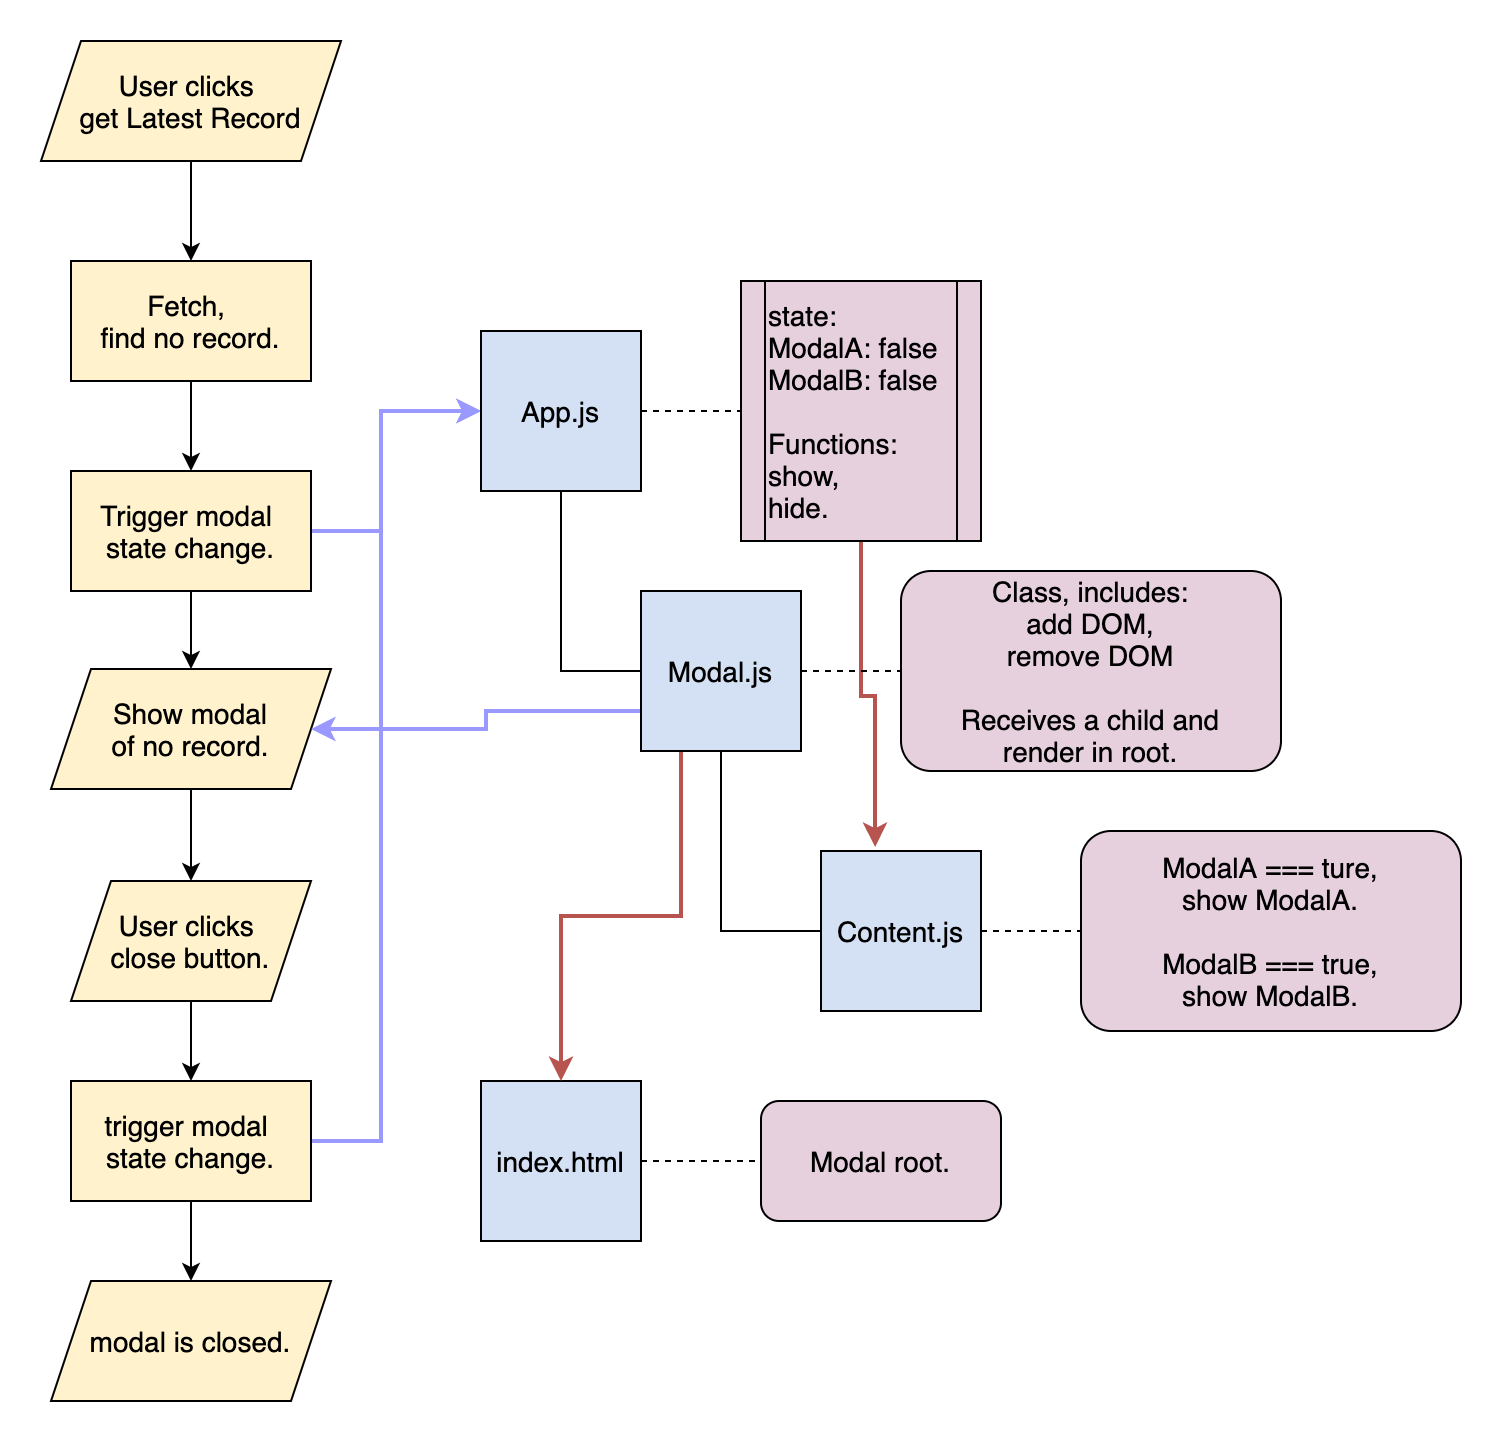
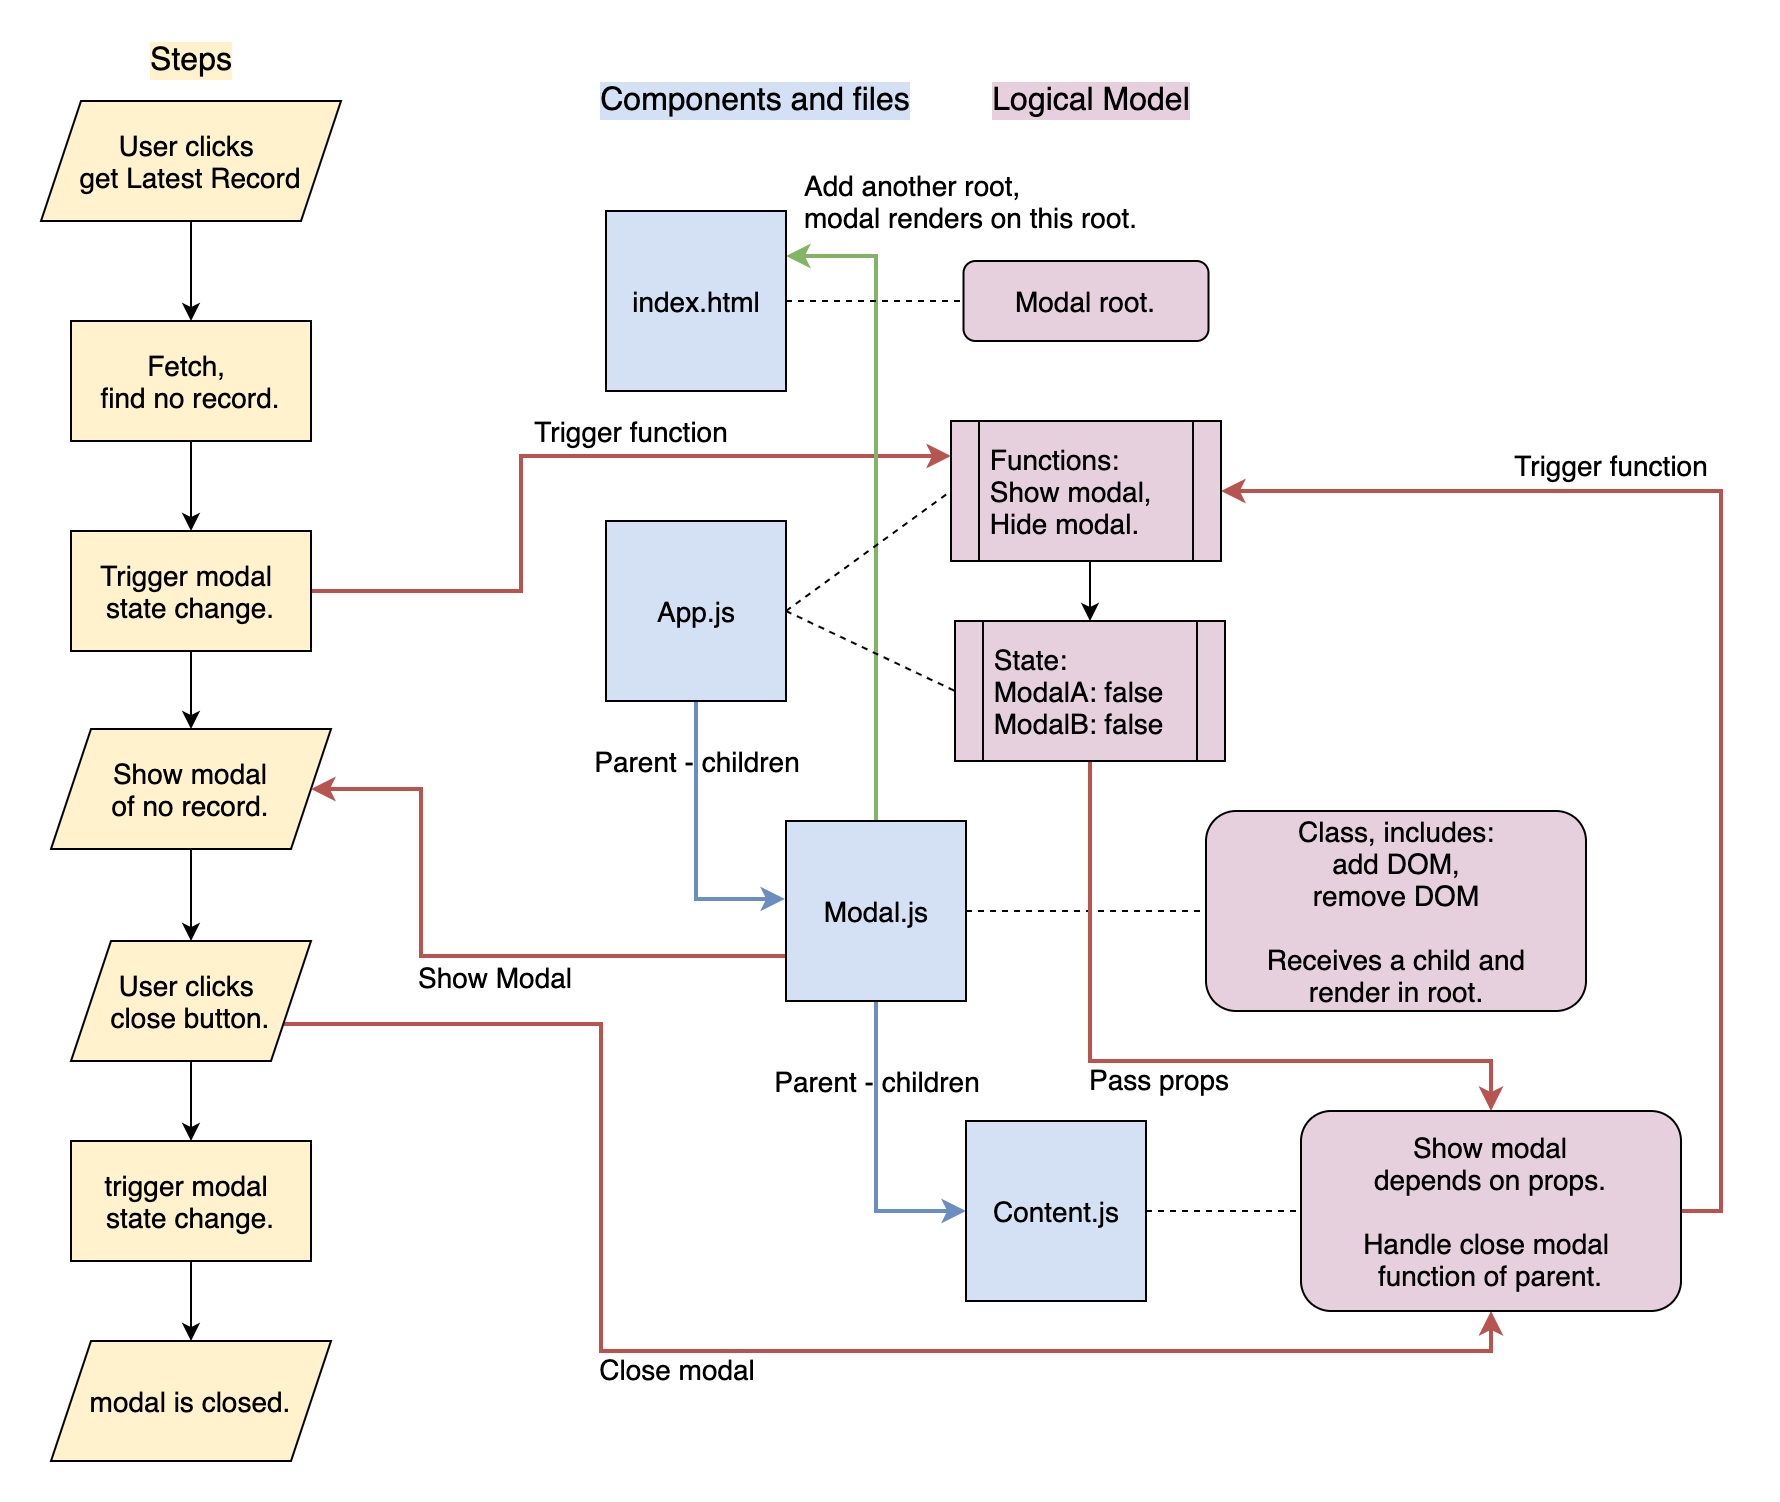
replace some png, add context

diff --git a/README_Mandarin.md b/README_Mandarin.md
@@ -6,9 +6,9 @@
 
 ## 動機及目的
 - 想減重😁。採用的方式是：讓「攝取」的熱量比「消耗」的熱量少。
-- 減重期間共約15週，每週都要重複計算熱量、做調整，我希望有一個系統，不只幫我算，也記得上週的數據，方便我調整，讓我減重更輕鬆。
+- 減重期間共約15週，每週都要重複計算熱量、做調整，我希望有一個系統，不只幫助計算，也記得上週的數據，方便做調整，讓減重更輕鬆。
 
-## 路徑簡介、使用方式介紹
+## 功能路徑、使用方式簡介
 
 <div align="center">
   <img src="example/dietaChart_bgw_200percent_pad20.png" alt="Dieta Route Chart" width="600px" />
@@ -21,9 +21,9 @@
 3. 此外，隨時可以到「結果查詢」叫出上次的計算結果。
 
 
-## 成果？？？？？🚀
-- 我把這個project推薦給我的教練，他也鼓勵他的學生使用🥰。
-- 上線一個月內達到xx個使用者。
+## 實際上線成果🚀
+- 我把這個project介紹給我的教練，他也推薦給他的學生使用🥰。
+- 上線一個月內達到 **31** 名使用者。
 
 ## 特點
 
@@ -42,7 +42,7 @@
 ✨ 手機、桌機體驗良好的前端網站。\
 ✨ 利用```react-super-responsive-table```達成響應式表格。\
 ✨ 利用```react-bootstrap```達成響應式導覽列。\
-✨ 利用Tachyons設定達成：針對不同螢幕大小，顯示不同樣式的設計。
+✨ 利用```Tachyons```設定達成：針對不同螢幕大小，顯示不同樣式的設計。
 
 ### 安全性
 ✨ 使用者密碼以**Bcrypt**加密。\
@@ -52,7 +52,7 @@
 ✨ 支援中文/英文，採用```react-i18next```及```hooks```\
 －將翻譯檔放在後端，需要時再去抓取，減少檔案大小。
 －自動偵測使用者瀏覽器語言。
-－基於i18next的基礎上發展，而i18next可與多種框架配合使用。
+－基於i18next的基礎上發展，而i18next可與多種框架配合使用，不僅限於react。
 
 ### 部署
 ✨ 前端網站部署到Netlify。\
@@ -88,30 +88,39 @@
 ## 詳細作法
 
 ### 註冊、登入，及 Guest user試用登入
-- 前端、後端、資料庫，登入、註冊的資料流向：
+- 前端、後端、資料庫，登入、註冊時，資料從前端帶到後端server，及資料庫，並回傳到前端：
   
 <div align="center">
   <img src="example/signIn_signUp_bgw_200percent_pad10.png" alt="sign in and sign up chart" width="600px" />
   <br>
 </div>
 
-### 儲存、計算使用者輸入資料
+- 登入(黃色框)時，資料傳到資料庫，比對hash的密碼，比對成功後將使用者資料回傳到前端。
+- 註冊(藍色框)時，資料傳到後端，建立新使用者，並儲存hash密碼於Login table，另外也在Users table新增該使用者，過程以transaction完成。完成後，回傳資料到前端。
+- Guest User(淺紫色框)的路線，則是不用註冊，直接試用計算熱量的功能，計算完成後，可導引至註冊頁面(箭頭連到註冊的藍色框)，填完資料後，系統會先新增該使用者，再將計算結果儲存到各個表格(箭頭旁的紫色說明文字部分)。
+
+
+### 路徑一：「開始減脂」，儲存、計算營養素和熱量
 - 「開始減脂」的路徑，前端畫面、state狀態、後端，與資料庫的流程圖示：
 
 <div align="center">
   <img src="example/calculation_path_bgw_200percent_pad10.png" alt="calculation path chart" width="600px" />
   <br>
 </div>
+- 使用者輸入的資料，以及計算結果，都會存在state，最後一步才會透過server存到資料庫。
 
-### 第二週開始，「減脂期間」，調整熱量
-- 「減脂期間」，使用者輸入體重後，動態檢視建議，調整下週熱量－使用者操作流程，及state改變：
+### 路徑二：第二週開始，「減脂期間」，調整熱量
+- 「減脂期間」，使用者輸入體重後，動態檢視建議，並調整下週熱量。以下是使用者操作流程，及state改變：
 
 <div align="center">
   <img src="example/next_move_path_bgw_200percent_pad10.png" alt="during diet chart" width="600px" />
   <br>
 </div>
 
-- 畫面展示：
+- 輸入體重後計算速率，並觸發state改變，來達到顯示特定內容的功能。
+- 使用者可選擇加快或放慢，畫面也會隨state跟著改變。
+
+#### 畫面展示：
 1. 輸入體重後，動態顯示建議。
 2. 下方動態顯示加速或放慢速度的選項。
 
@@ -121,24 +130,29 @@
 </div>
 
 
-### 叫出上週的「活動量、運動量」記錄，使用者不用再一一點選。
-- 減脂期間，可點選按鈕，叫出上週的活動量、運動量紀錄。使用者操作流程，及state改變，與後端、資料庫的流程：
+### 「下載上週記錄」功能，使用者不用再一一點選活動量、運動量。
+- 當使用者進入減脂期間，到點選活動量、運動量頁面時，可點選下載按鈕，直接叫出上週的紀錄。下圖是使用者操作流程，及state改變，與後端、資料庫的流程：
 
 <div align="center">
   <img src="example/Load_options_bgw_200percent_pad10.png" alt="load activity and exercise record" width="600px" />
   <br>
 </div>
 
-### 叫出上次的熱量計算結果
-- 判斷是否為guest user，及是否存有記錄，有的話就顯示在畫面上。
+- 原本為了將一週七天的選擇結果記錄下來，state裡面有設計活動量及運動量的陣列。
+- 為了達到「將結果叫出，並且顯示在畫面上」的功能，我加上新的state去控制該選項是否「checked」。每組選項共有「無、低、中、高」四種等級，於是以一個2維陣列代表，分別紀錄每個小選項的checked狀態，checked為true的就會顯示為選中。
+
+
+### 路徑三：「叫出上次的熱量計算結果」
+- 叫出計算結果，並顯示在畫面上。
 
 <div align="center">
   <img src="example/get_result_path_200persent_pad20.png" alt="get latest result chart" width="600px" />
   <br>
 </div>
 
+- 此路徑必須先判斷是否為guest user，及是否存有記錄(已註冊，但還沒計算過的使用者，就不會有紀錄)。如果有，在畫面上顯示結果；沒有，顯示提醒，並將使用者導引至路徑一：熱量計算。
 
-### 使用三大功能(開始計算、熱量調整、查看上次熱量紀錄)時，判斷權限。
+### 使用三大路徑功能(開始計算、熱量調整、查看上次熱量紀錄)時，判斷權限。
 - 區分使用者是否有登入，某些功能頁面僅限已登入的使用者使用，未登入者會被導引至登入畫面。
 - 除此之外，進入不同功能時，有些前置作業(抓資料、刪除資料)必須完成，也是在這邊做判斷並執行。
 
@@ -156,38 +170,32 @@
   <img src="example/routeChange_200persent_pad20.png" alt="route change check chart" width="600px" />
   <br>
 </div>
-
+- 使用者想進入選擇活動量頁面，先判斷使用者是從「路徑一，計算熱量」還是「路徑二，熱量調整」來的？再判斷各自的頁面資料是否填寫正確。如錯誤，顯示提醒；正確，路徑一者，導引到活動頁；路徑二，再次進行判斷，是否已有計算資料？沒有的話，彈出提醒。
 
 ### 根據route顯示不同畫面
+- ```App.js```裡用function及state來控制畫面：
 <div align="center">
   <img src="example/renderRoute_200persent_pad20.png" alt="route change chart" width="600px" />
   <br>
 </div>
 
-- 設定三個function，及一個route state。
-- 一個function專門去change State。
-- 一個function傳入route參數，並以```switch case```分別定義：在不同route case時，回傳要顯示的component。
-- 在最後的render function放入前一function的執行結果。
+- 設定3個function，及一個route state。
+- ```A function```專門change State。
+- ```B function```傳入route state，並以```switch case```分別定義：在不同route case時，回傳要顯示的component。
+- ```C render function```放入```B function```的執行結果。
 
 
 ### Modal彈出提醒視窗
+- 以```portal```功能達到modal效果。下圖顯示使用者操作流程，搭配component的資料傳遞。
+
 <div align="center">
   <img src="example/modal_200percent_pad20.png" alt="modal chart" width="600px" />
   <br>
 </div>
 
 - 遇到「未完成第一次計算」的使用者想下載紀錄，跳出錯誤宣告:「沒有計算結果」或「沒有活動量、運動量紀錄」
-- 利用react的portal概念達到modal效果。
-- 分別設定單獨的modal component，並另外將modal的內容設為另一個component，以children的方式傳入，達到重複利用的目的。
-
-下面可刪除？＝＝＝
-- ```在index.html```設兩個root，一個給portal使用。
-- 在```modal class```裡面，contructor指定一新增div DOM，並且利用生命週期function設定開啟、關閉時，將DOM附加或移除。
-- ```modal class```的render，用```createPortal```將children顯示在div DOM裡面
-- 在app裡面的state，設定哪種modal需要出現。並且有function去控制state。
-- app render的地方，<Modal>裡面夾著<content>，並且透過props把state，及控制關閉modal的function傳進去。
-- modal content 內容的部分，則依據所收到的state不同，決定要回傳哪一個內容。
-＝＝＝
+- 利用react的portal做出modal效果。
+- 分別設定單獨的modal component，及另外一個內容component，將內容以children的方式傳入modal，達到重複利用component的目的。
 
 ### react-i18n使用
 
@@ -196,14 +204,14 @@
   <br>
 </div>
 
-- 
 - 設定```i18n.js```檔，用來設定語言、偵測器、後端下載的路徑，並import到```index.js```使他能被bundle在一起。
-- 翻譯的json檔，放在```public``` > ```locales``` 檔案夾。
+- 翻譯的json檔，主要放在```public``` > ```locales``` 檔案夾。
 - 幾種使用react-i18next的方式:
-1. functional component: useTranslation Hook.
-2. class component: withTranslation, Higher order component.
-3. 運動、活動表格裡的資料，是另外把資料倒進去，不是寫死在表格裡的，所以翻譯資料必須另外放、另外fetch：偵測語言，到public folder抓回來。
-4. 語言切換的handle: useTranslation Hook.
+1. 導覽列的語言切換功能: 使用useTranslation Hook.
+2. functional component: 使用useTranslation Hook.
+3. class component: 使用withTranslation, Higher order component.
+- 另外，運動、活動表格裡的資料，不是寫死在表格裡，而是匯入檔案，把資料倒進去。所以我把翻譯檔另外放，要用時，先偵測語言，再去public folder fetch回來。
+
 
 
 
